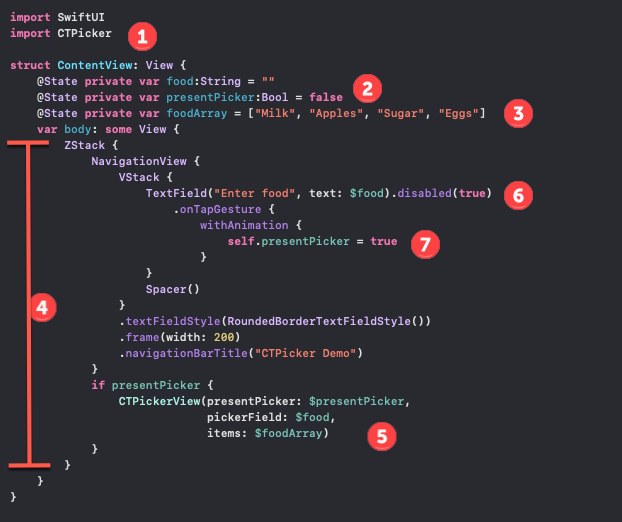
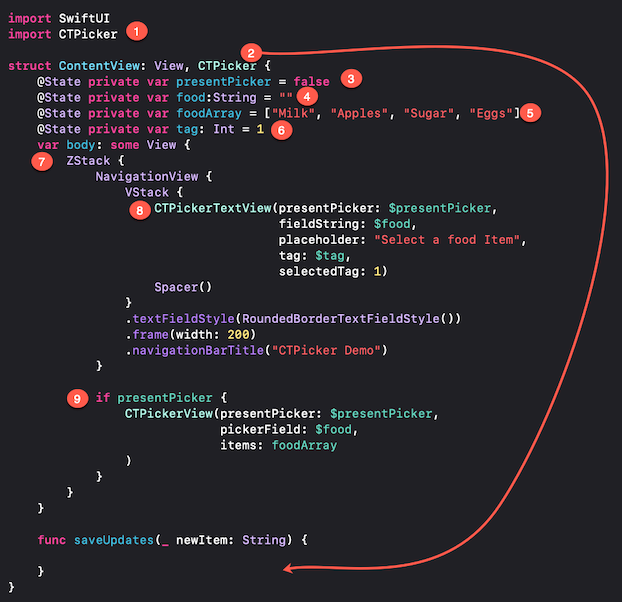
Updated Readme

diff --git a/README.md b/README.md
@@ -1,4 +1,4 @@
-# CTPicker_SwiftUI
+#              CTPicker_SwiftUI
 
 [![Platform](http://img.shields.io/badge/platform-iOS-blue.svg?style=flat)](https://developer.apple.com/iphone/index.action)[![](http://img.shields.io/badge/language-Swift-brightgreen.svg?color=orange)](https://developer.apple.com/swift)![](https://img.shields.io/github/tag/stewartlynch/CTPicker_SwiftUI?style=flat)![](https://img.shields.io/github/last-commit/StewartLynch/CTPicker_SwiftUI)
 
@@ -13,17 +13,9 @@ If you wish to limit your user to picking from an array of strings, then one of 
 - iOS 13.0+
 - Xcode 11.0+
 - SwiftUI
-### YouTube Video
-
-Watch this video to see installation and use as described below. Additional tips for adding more than one CTPickerView to a SwiftUI view is also presented in the video.
-
-https://www.youtube.com/watch?v=0DqLReYTry8
-
-<iframe width="560" height="315" src="https://www.youtube.com/embed/0DqLReYTry8" frameborder="0" allow="accelerometer; autoplay; encrypted-media; gyroscope; picture-in-picture" allowfullscreen></iframe>
-
 #### The Starting Example
 
-The best way to explain how to implement CTPicker is to work through an example  of how to add CTPicker to a view containing a single TextField.  The example is a TextField that asks the user to enter a food item.
+The best way to explain how to implement CTPicker is to work through an example  of how to add CTPicker to a view.  In this example, I will add change the TextField into a CTPickerTextView.  The example is a TextField that asks the user to enter a food item.
 
 ```swift
 struct ContentView: View {
@@ -63,7 +55,23 @@ In the View where you are going to implement `CTPicker` on your TextField, impor
 import CTPicker
 ```
 
-##### Step 2 - Create initial presentation @State variable
+##### Step 2 - Conform your view to the CTPicker protocol
+
+````swift
+struct ContentView: View, CTPicker {
+  
+}
+````
+
+> Note:  This will then require you to add a function for updating your array.  You can have Xcode generate the stub for you.  If you are not going to allow updates, you will can just leave the body empty.  More on this in step #
+>
+> ````swift
+> func saveUpdates(_ newItem: String) {
+>     
+> }
+> ````
+
+##### Step 3 - Create initial presentation @State variable
 
 The next step is to create the presentation boolean variable that when set to true, will present the picker.  As this will be changed in the view, it must be created as an @State variable.  The initial value is set to false.
 
@@ -71,23 +79,53 @@ The next step is to create the presentation boolean variable that when set to tr
 @State private var presentPicker:Bool = false
 ```
 
-##### Step 3 - Create String Arrays @State variables if necessary
+##### Step 4 - Create @State variable for your TextField content
 
-When presenting the CTPickerView, you will be asked to pass in the array of strings and this array will be bound to a @Binding variable in the CTPickerView so that if you append to the array, it will be updated in your content view as well. (See saving data below). 
+If you do not already have a @State variable for your TextField, create one as a String and assign it an empty string.
 
-You can pass in any array of strings,  but to continue on with this example, I will just create it within the existing view and it must be created as an @State variable (or be the property of an @ObservedObject)
+````swift
+@State private var food:String = ""
+````
+
+##### Step 5 - Create String Array and make it @State variable if necessary
+
+When presenting the CTPickerView, you will be asked to pass in the array of strings and this array.  If you are going to allow users to be able to modify the array, it will have to be able to be bound to a @Binding variable in the CTPickerView.  Watch video for other examples and see the saveUpdates function below. 
+
+You can pass in any array of strings,  but to continue on with this example, I will just create it within the existing view and if you are going to allow updates, it must be created as an @State variable (or be able to access it as the property of an @ObservableObject)
 
 ```swift
-@State private var foodArray = ["Milk", "Apples", "Sugar", "Eggs"]
+@State private var foodArray = ["Milk", "Apples", "Sugar", "Eggs", "Oranges", "Potatoes", "Corn", "Bread"]
 ```
 
-##### Step 4 - Enclose exsiting view in a ZStack
+##### Step 6 - Create a tag @State Integer variable
+
+Every CTPicker TextField must have a tag associated with it so that you will be able to present the correct picker and save updates if you have more than one picker on your view.
+
+````swift
+@State private var tag: Int = 1
+````
+
+##### Step 7 - Enclose exsiting view in a ZStack
 
 The CTPickerVew is a view that will be presented on top of the exsiting view.  To allow this, we need to surround the existing view including the NavigationView if one exists within a `ZStack`
 
 ### ![ZStack](ReadMeImages/ZStack.gif)
 
-##### Step 5  - Conditionally Present the CTPicker
+##### Step 8 - Create a CPickerTextView
+
+Create, or, if you already have a TextField in your view, replace it with a CTPickerTextView.  This view requires that ou pass in a binding to your presesentPicker, and fieldString state variables along with the placeholder text, a binding to the tag @State variable and a tag value for your CTPickerTextView.  If you only have one TextField, you can set the selectedTag to 1.
+
+ ````swift
+CTPickerTextView(presentPicker: $presentPicker,
+                 fieldString: $food,
+                 placeholder: "Select a food Item",
+                 tag: $tag,
+                 selectedTag: 1)
+ ````
+
+
+
+##### Step 9  - Conditionally Present the CTPicker
 
 You can now add, as the second item in the ZStack, a conditional presentation of the CTPickerView.  The condition will be whenever our `presentPicker` boolean value is set to `true`.  
 
@@ -98,68 +136,49 @@ The CTPickerView by default requires 3 parameters which are the 3 state variable
 - The string array - `$foodArray`
 
 ```swift
- if presentPicker {
+if presentPicker {
     CTPickerView(presentPicker: $presentPicker,
                  pickerField: $food,
-                 items: $foodArray)
+                 items: foodArray,
+    )
 }
 ```
 
-##### Step 6 - Disable Entry into the TextField and add onTapGesture
 
-To present the picker, we must first disable entry into the TextField  (`.disabled(true)`) and subsequently add an `.onTapGesture` to the TextField.
 
-```swift
-TextField("Enter food", text: $food).disabled(true)
-    .onTapGesture {
-            
-}
-```
-
-##### Step 7 - Set the presentation state variable to true
-
-WIthin the onTapGesture closure block we can set the `presentPicker` variable to true.  To make the presentation more visual, we can do this within a `withAnimation` block.
-
-```swift
-withAnimation {
-   self.presentPicker = true
-}
-```
 The final result looks like this (numbers refer to steps above)
 
 ![Basic](ReadMeImages/Basic.png)
 
 If you run your app now, you will find that this is indeed a functional picker.  However, we have not yet added the ability to add items.
 
-##### Step 8 - Enabling Adding of Items
+##### Step 10 - Add the saveUpdates argument to your CTPickerView
 
-To add items, you first need to create a function that will get executed when the picker closes.  This function accepts one parameter, a string that will be the item added.
+To add items you need to do two things.  First you need to add the saveUpdates function as an argument when presenting CTPickerView.  It can be added right after your items argument.
 
-**Note:** Since the array being passed to the CTPickerView is bound to CTPickerView, it will be updated, but you may wish to capture that value and update your back end data store in a way that requires this entry.  You may, or may not need this data, but the update function requires it.  It of course, can be ignored.
+````swift
+CTPickerView(presentPicker: $presentPicker,
+             pickerField: $food,
+             items: foodArray,
+             saveUpdates: saveUpdates
+)
+````
 
-In any case, the function will allow you to persist data between sessions.
+##### Step 11 - Complete the saveUpdates function body
 
-Create a function like this:
+When you add an item in CTPickerView, the saveUpdates function is executed with a string `newItem`argument.  
+
+It is up to you to add code that will update your array with this new time, and if required persist the data.
+
+In our case, this is straight forward as we have an array of strings, so I can just append the new item.
 
 ```swift
-func saveUpdates(newItems:String) {
-   // Do whatever you want to with this new item
-   // You may need to update and save the data for persistence
+func saveUpdates(_ newItem:String) {
+   foodArray.append(newItem)
 }
 ```
 
-##### Step 9 - Add the saveUpdates parameter to your CTPickerView
-
-With the function created, you can now add the additional `saveUpdates` parameter to your CTPickerView.
-
-```swift
-CTPickerView(presentPicker: $presentPicker,
-             pickerField: $food,
-             items: $foodArray,
-             saveUpdates: saveUpdates)
-```
-
-If you run the application now, you will see that the picker has an Add button on the top right.  If you enter a value in the filter field that does not match any of the existing items, it will be enabled.  When you tap it, the item gets added to the array and runs the `saveUpdates` function, passing in this new value and the `CTPickerView` is dismissed.  If you tap the field again, you will see your new entry in the selection list and the TextField is populated with this value
+If you run the application now, you will see that the picker has an Add button on the top right.  If you enter a value in the filter field that does not match any of the existing items, it will be enabled.  When you tap it,  the `saveUpdates` function is called, passing in this new value and the `CTPickerView` is dismissed.  If you tap the field again.  If you update your array in the saveUpdates function you will see your new entry in the selection list when you tap on the field again.
 
 ##### Step 9 - Fixing the dismissal Animation
 
@@ -207,11 +226,9 @@ ctpColors: ctpColors
 The final option is to change one or more of the strings used in CTPickerView. The default values are:
 
 ```swift
-pickText - "Tap an entry to select it, or type in new entry.",
-addText - "Type new entry then tap '+' button to add new entry",
-noItemText - "No items match",
-searchPlaceHolder - "Filter by entering text...",
-newEntry - "New Entry",
+pickText - "Filter list then tap entry to select."
+addText - "Filter list then tap entry to select, or type new entry then '+' to add."
+searchPlaceHolder - "Filter by entering text..."
 cancelBtnTitle - "Cancel"
 ```
 
@@ -233,6 +250,6 @@ Here is your CTPickerView with the saveUpdates function and all optional paramet
 
 If you are more of a visual learner and also want to get tips on how to add more than one CTPickerView to a single SwiftUI View, please watch the YouTube video.
 
-https://www.youtube.com/watch?v=0DqLReYTry8
+Video Coming Soon
 
 Interested in a UIKit version of CTPicker?  See https://github.com/StewartLynch/CTPicker
